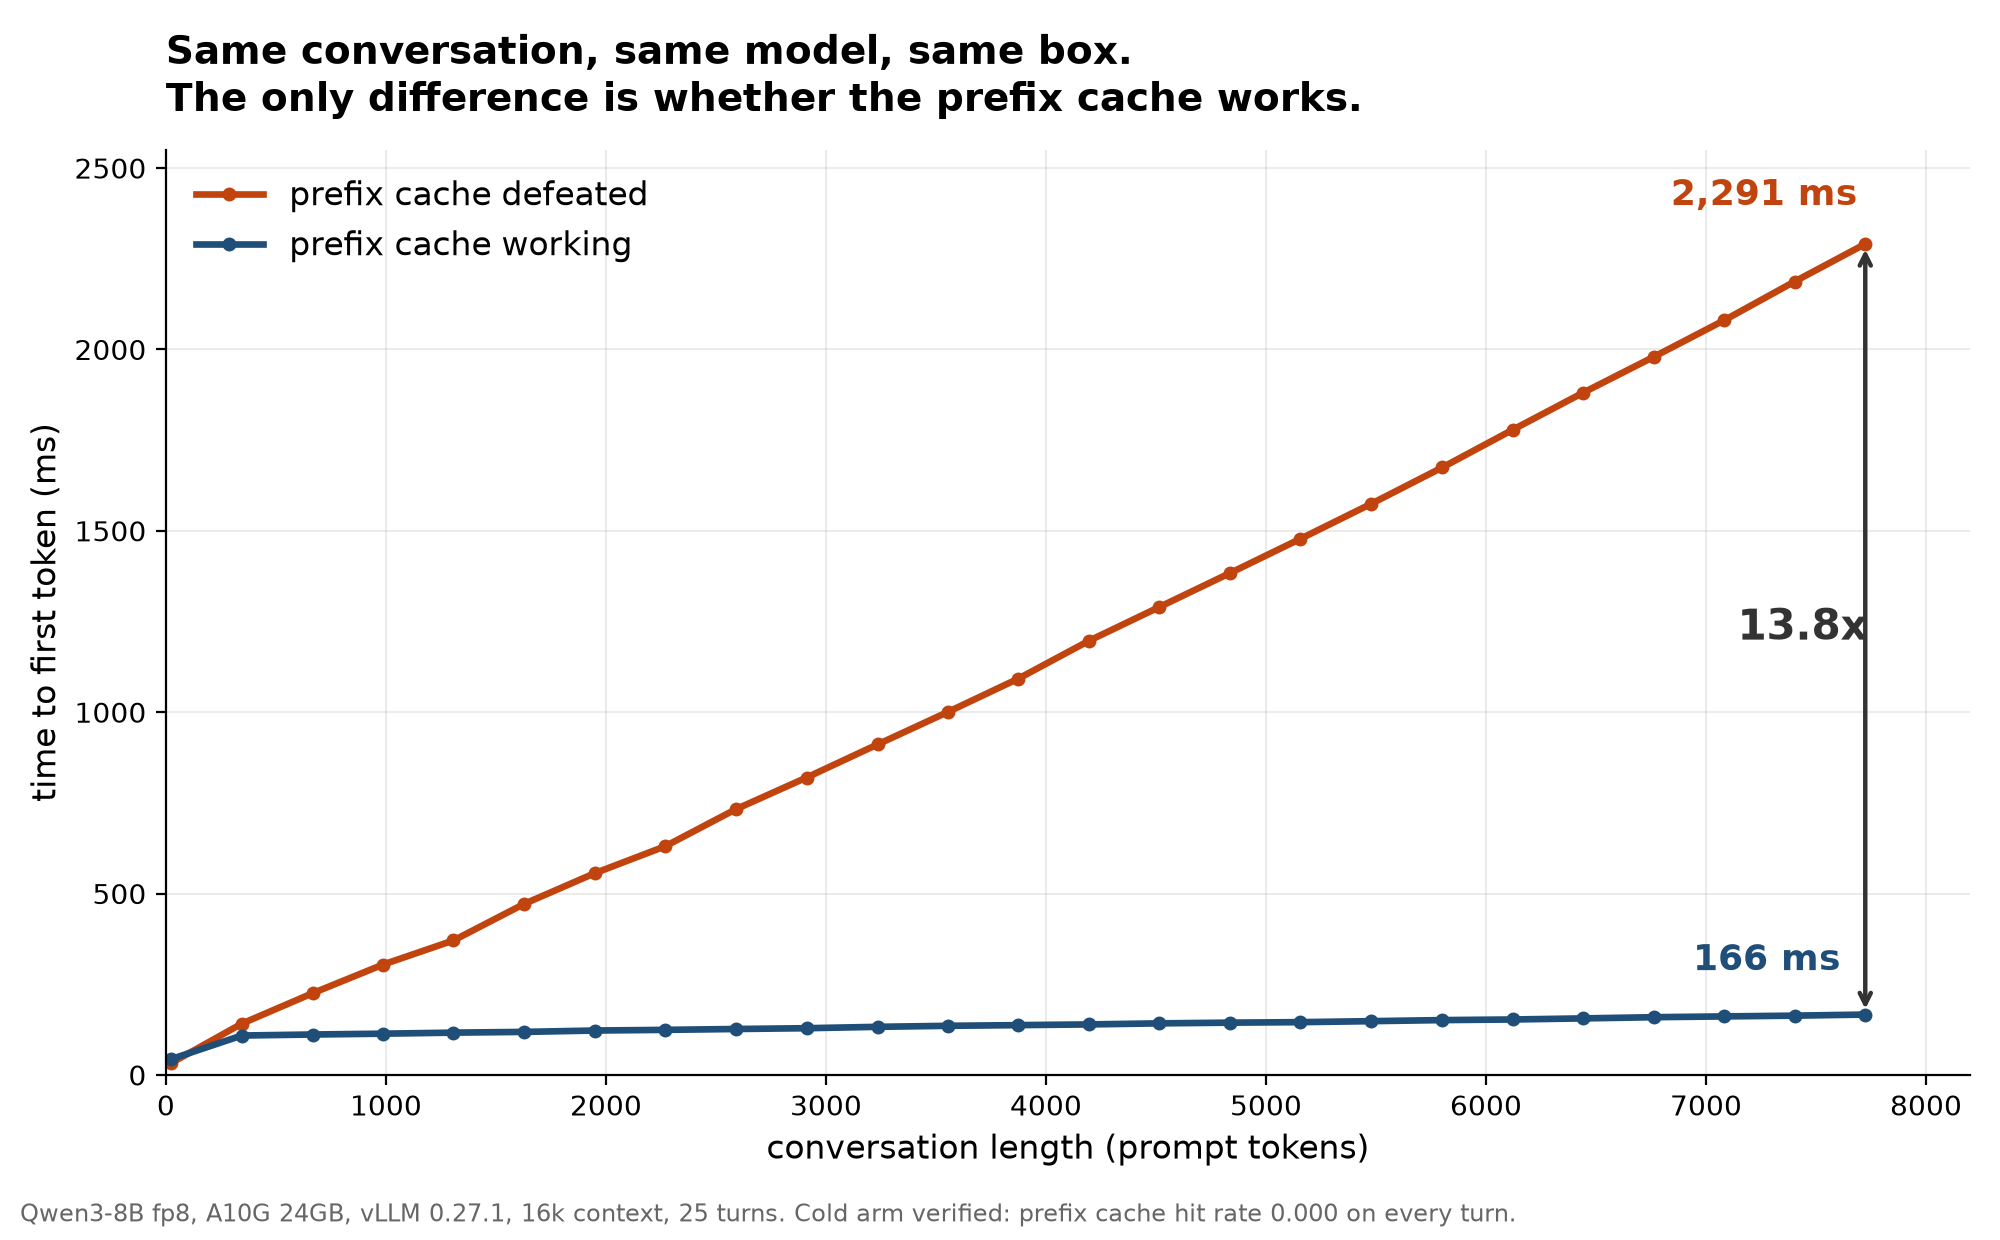
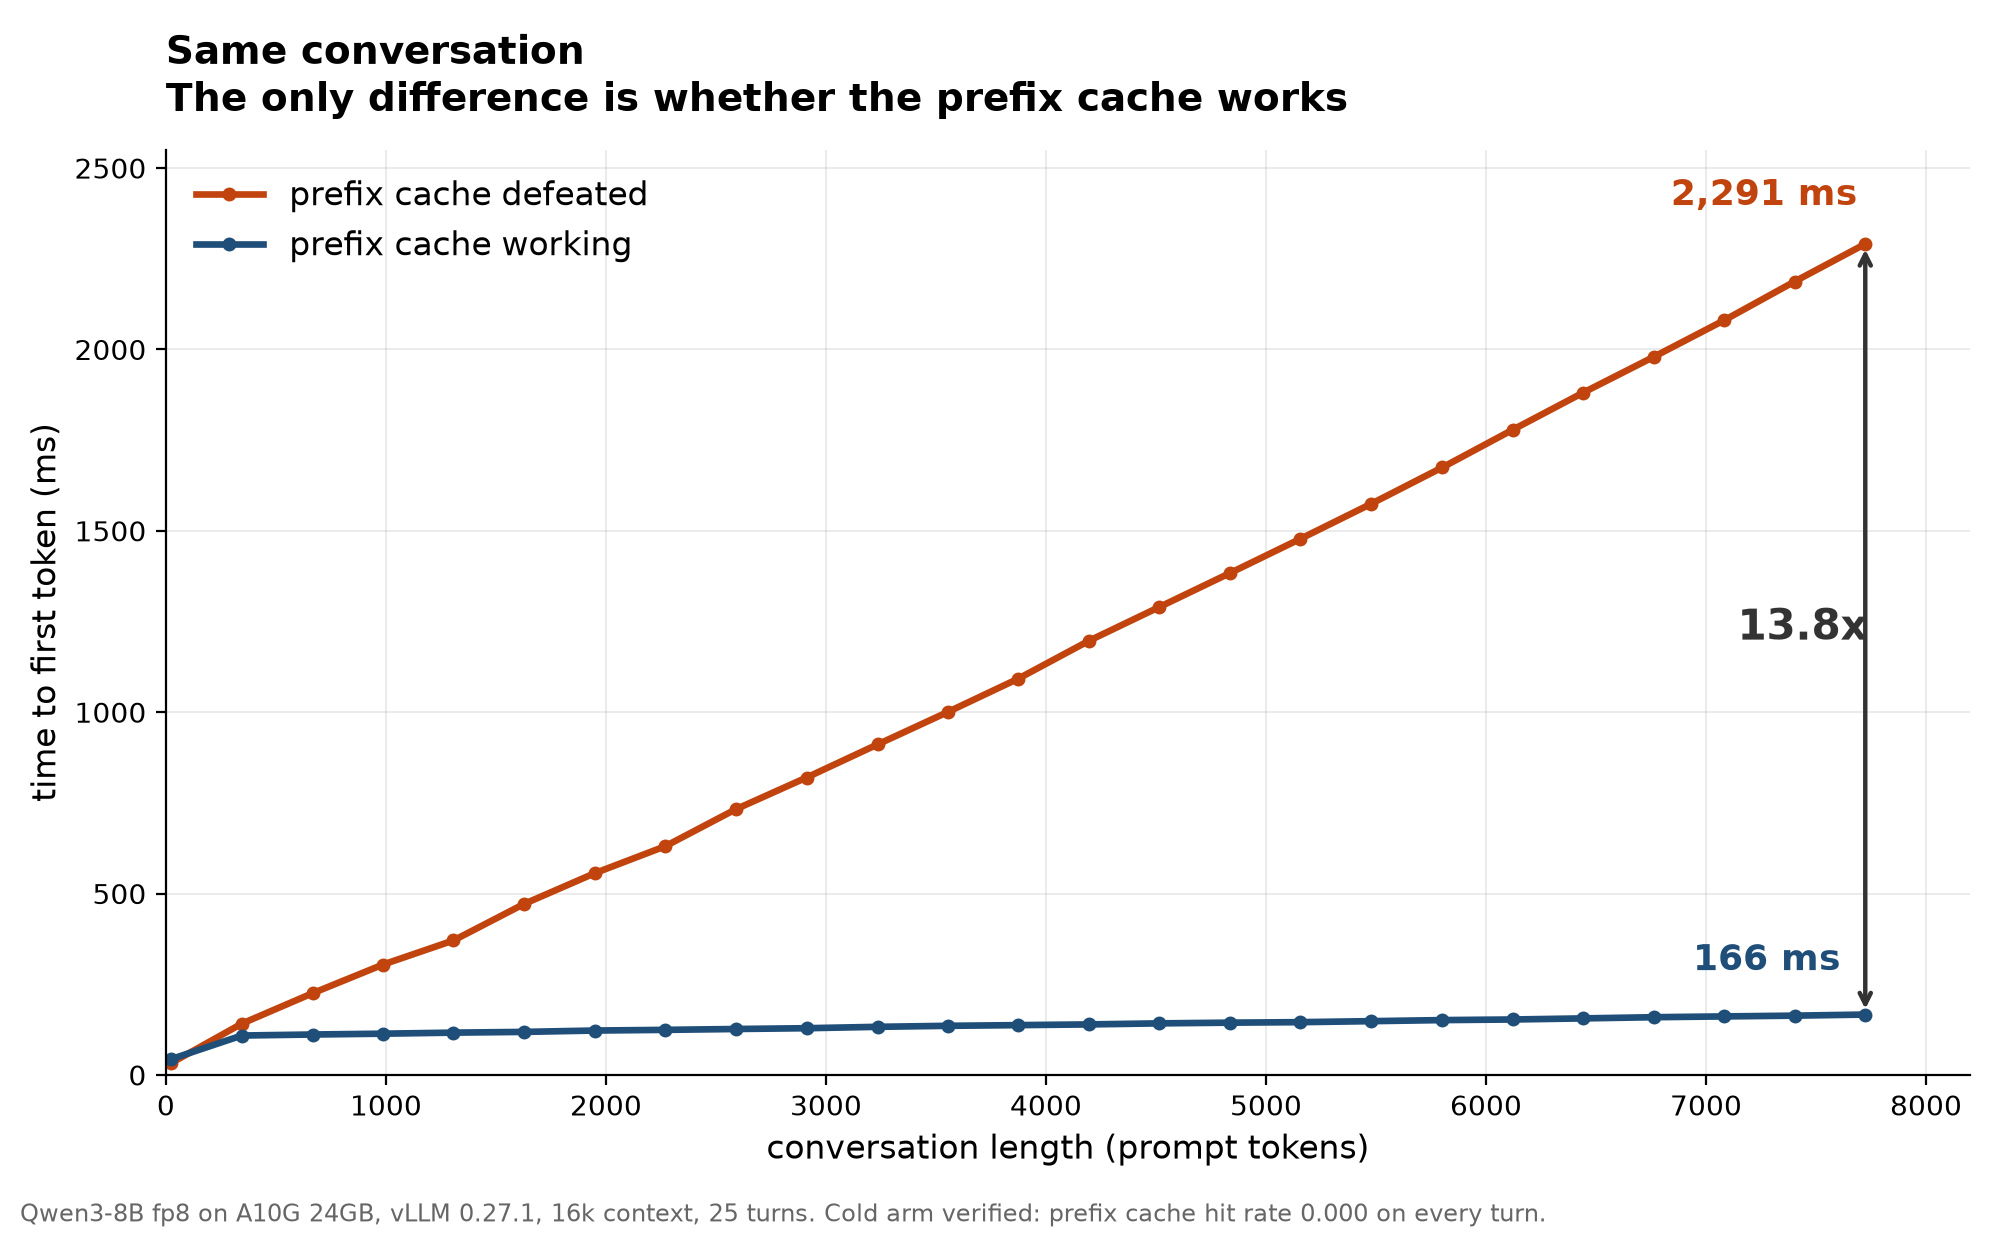
plot: retitle the prefix-cache chart

Changed region(s): [[0.093, 0.95, 0.775, 1.0], [0.31, 0.0306, 0.558, 0.0613]]

diff --git a/tools/plot-prefix-cache.py b/tools/plot-prefix-cache.py
@@ -37,12 +37,12 @@ ax.annotate("", xy=(x[-1], w[-1]["ttft_ms"]), xytext=(x[-1], c[-1]["ttft_ms"]),
 
 ax.set_xlabel("conversation length (prompt tokens)", fontsize=12)
 ax.set_ylabel("time to first token (ms)", fontsize=12)
-ax.set_title("Same conversation, same model, same box.\nThe only difference is whether the prefix cache works.",
+ax.set_title("Same conversation\nThe only difference is whether the prefix cache works",
              fontsize=14, fontweight="bold", loc="left", pad=14)
 ax.legend(fontsize=12, frameon=False, loc="upper left")
 ax.grid(alpha=0.25, lw=0.7); ax.set_ylim(0, 2550); ax.set_xlim(0, 8200)
 for s in ("top", "right"): ax.spines[s].set_visible(False)
-fig.text(0.01, 0.015, "Qwen3-8B fp8, A10G 24GB, vLLM 0.27.1, 16k context, 25 turns. "
+fig.text(0.01, 0.015, "Qwen3-8B fp8 on A10G 24GB, vLLM 0.27.1, 16k context, 25 turns. "
          "Cold arm verified: prefix cache hit rate 0.000 on every turn.",
          fontsize=8.5, color="#666666")
 fig.tight_layout(rect=(0, 0.035, 1, 1))
